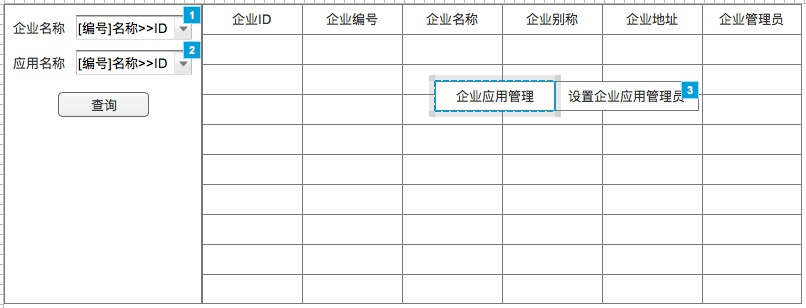
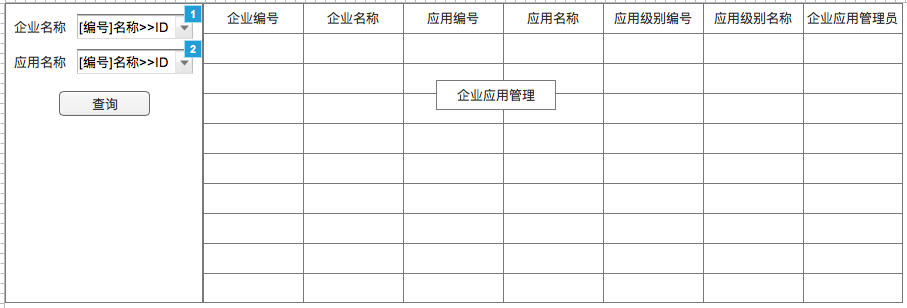
1、2.2企业应用管理——企业管理员界面设计 2、补充上3个动态对象的设计文档

Changed region(s): [[0.0, 0.0, 1.0, 0.9935], [0.062, 0.2922, 0.1861, 0.3799]]

diff --git a/desktop/design/detail/detail-design-02002.md b/desktop/design/detail/detail-design-02002.md
@@ -5,6 +5,8 @@
 ## 1、流程图
 ![](./img/2/2/企业应用管理流程图.png)
 
+图0-1
+
 ## 2、模块详细设计
 
 ### 2.1、企业应用查询模块
@@ -13,13 +15,15 @@
 #### 2.1.1、界面
 ![](./img/2/2/企业应用查询界面.png)
 
+图1-1
+
 #### 2.1.2、业务规则
 
 ##### 条件元素
-|名称|是否必填|查询类型|字段|备注|
-|---|:-----:|:-----:|---|---|
-|企业名称|否|精准查询|bg_id|动态对象——企业信息(BA)——CODELABEL2ID|
-|应用名称|否|精确查询|app_id|动态对象——应用信息(BA)——CODELABEL2ID|
+|ID|名称|是否必填|查询类型|字段|备注|
+|---|---|:-----:|:-----:|---|---|
+|bgId|企业名称|否|精准查询|tb.bg_id|动态对象——[企业信息(BA)](./dynobj/企业信息(BA).md)——CODELABEL2ID|
+|appId|应用名称|否|精确查询|tah.app_id|动态对象——[应用信息(BA)](dynobj/应用信息(BA).md)——CODELABEL2ID|
 
 ##### SQL:
 ```
@@ -42,16 +46,16 @@ ORDER BY tb.bg_no, tah.app_no, tal.level_no;
 ```
 
 ##### 字段元素
-|字段|名称|隐藏|
+|字段|名称|hidden|
 |:---:|:---:|:---:|
-|bgId|企业应用ID|是|
-|bgNo|企业编号|否|
-|bgName|企业名称|否|
-|appNo|应用编号|否|
-|appName|应用名称|否|
-|levelNo|应用级别编号|否|
-|levelName|应用级别名称|否|
-|nickname|企业应用管理员|否|
+|bgId|企业应用ID|true|
+|bgNo|企业编号|false|
+|bgName|企业名称|false|
+|appNo|应用编号|false|
+|appName|应用名称|false|
+|levelNo|应用级别编号|false|
+|levelName|应用级别名称|false|
+|nickname|企业应用管理员|false|
 
 ##### 右击菜单逻辑
 |菜单|操作逻辑|
@@ -59,26 +63,30 @@ ORDER BY tb.bg_no, tah.app_no, tal.level_no;
 |设置企业应用管理员|打开设置企业应用管理员界面，传输条件erpId|
 
 ### 2.2、设置企业应用管理员界面
+主键为erpId，所有的操作以erpId进行贯穿
 
-#### 2.3.1、界面
-![](./img/设置企业管理员界面.png)
+#### 2.2.1、界面
+![](./img/2/2/企业应用管理员界面.png)
 
-图3-1
+图2-1
 
-#### 2.3.2、业务规则
 
-##### 图3-1界面元素
-|名称|字段|备注
+#### 2.2.2、业务规则
+
+##### 图2-1界面元素
+|名称|字段|备注|
 |:---:|:---:|---|
-|企业名称|bg_name||
-|管理员|admin_person_id|动态对象——人员帐号——CODELABEL2ID|
+|企业名称|bgName| |
+|应用名称|appName| |
+|应用级别|levelName| |
+|管理员|adminPersonId|动态对象——[人员账号_baId](dynobj/人员账号_baId.md)——CODELABEL2ID|
 
 ##### 界面逻辑
 |规则|描述|
 |:---:|---|
-|打开|依据bgId从数据库中获取到bg_name和admin_person_id，并填入对应的field内|
+|打开|依据erpId从数据库中获取到bgName／appName／levelName／adminPersonId，并填入对应的field内|
 |选择管理员|动态对象的选择，展现：[employeeNumber]nickname，提交：personId|
-|设置|提交bgId和adminPersonId，依据bgId修改对应adminPersonId，并需要把其保存到日志表tzpf_bg_admin_change_log|
+|设置|提交erpId和adminPersonId，依据erpId修改对应adminPersonId，并需要把其保存到日志表tzpf_erp_admin_change_log|
 |设置错误|提示错误信息|
 |设置正确|提示设置成功，点击确定后关闭窗口，并刷新外面的查询|
 |关闭逻辑|关闭窗口|

diff --git a/desktop/design/detail/dynobj/人员账号_bgId.md b/desktop/design/detail/dynobj/人员账号_bgId.md
@@ -1,0 +1,32 @@
+# 企业信息(BA)
+- **功能：** 用于人员信息查询和展现，需要bgId作为查询条件传入
+
+## 1、界面
+![](./../img/dynobj/人员账号_bgId.png)
+
+注：墨绿色为隐藏字段
+
+## 2、SQL：
+```
+SELECT
+  vu.person_id       AS personId,
+  vu.employee_number AS employeeNumber,
+  vu.nickname,
+  vu.email_address   AS emailAddress,
+  vu.mobile_phone    AS mobilePhone
+FROM v3_user vu, tzpf_bg_person tbp
+WHERE vu.person_id = tbp.person_id
+      AND tbp.bg_id = ${bgId}
+ORDER BY vu.employee_number;
+```
+
+## 3、字段元素
+|字段|名称|key|search|hidden|
+|---|---|:---:|:---:|:---:|
+|personId|人员ID|ID|true|true|
+|employeeNumber|账号|CODE|true|false|
+|nickname|昵称|LABEL|true|false|
+|emailAddress|电子邮箱| |true|false|
+|mobilePhone|手机| |true|false|
+
+

diff --git a/desktop/design/detail/dynobj/应用信息(BA).md b/desktop/design/detail/dynobj/应用信息(BA).md
@@ -1,0 +1,31 @@
+# 应用信息(BA)
+- **功能：** 用于应用信息查询和展现，里面加入BA的权限条件
+
+## 1、界面
+![](./../img/dynobj/应用信息(BA).png)
+
+注：墨绿色为隐藏字段
+
+## 2、SQL：
+```
+SELECT
+  tah.app_id       AS appId,
+  tah.app_no       AS appNo,
+  tah.app_loc_name AS appName 
+WHERE tah.app_id = teh.app_id
+      AND teh.user_id = tb.bg_id
+      AND teh.user_type = '1'
+      AND tah.app_status = '1'
+      AND tb.admin_person_id = ${session_personId}
+GROUP BY tah.app_id, tah.app_no, tah.app_loc_name
+ORDER BY tah.app_no; 
+```
+
+## 3、字段元素
+|字段|名称|key|search|hidden|
+|---|---|:---:|:---:|:---:|
+|appId|应用ID|ID|true|true|
+|appNo|应用编号|CODE|true|false|
+|appName|应用名称|LABEL|true|false|
+
+

diff --git a/desktop/design/detail/dynobj/企业信息(BA).md b/desktop/design/detail/dynobj/企业信息(BA).md
@@ -1,0 +1,27 @@
+# 企业信息(BA)
+- **功能：** 用于企业信息查询和展现，里面加入BA的权限条件
+
+## 1、界面
+![](./../img/dynobj/企业信息(BA).png)
+
+注：墨绿色为隐藏字段
+
+## 2、SQL：
+```
+SELECT
+  tb.bg_id   AS bgId,
+  tb.bg_no   AS bgNo,
+  tb.bg_name AS bgName 
+FROM tzpf_bg tb
+WHERE tb.admin_person_id = ${session_personId}
+ORDER BY tb.bg_no;
+```
+
+## 3、字段元素
+|字段|名称|key|search|hidden|
+|---|---|:---:|:---:|:---:|
+|bgId|企业ID|ID|true|true|
+|bgNo|企业编号|CODE|true|false|
+|bgName|企业名称|LABEL|true|false|
+
+

diff --git a/desktop/design/detail/detail-design-01002.md b/desktop/design/detail/detail-design-01002.md
@@ -70,10 +70,10 @@ WHERE tb.admin_person_id = ${session_person_id} AND ${bgName}
 |id|id|隐藏|
 |orgName|机构名称|text|
 |leaf|是否叶子|用于extjs树展现，隐藏|
-|orgCode|机构编号||
-|level|层级||
-|lastModifiedBy|最后修改人||
-|lastModifiedDate|最后修改日期||
+|orgCode|机构编号| |
+|level|层级| |
+|lastModifiedBy|最后修改人| |
+|lastModifiedDate|最后修改日期| |
 
 ##### 图2-1页面逻辑
 |规则|描述|
